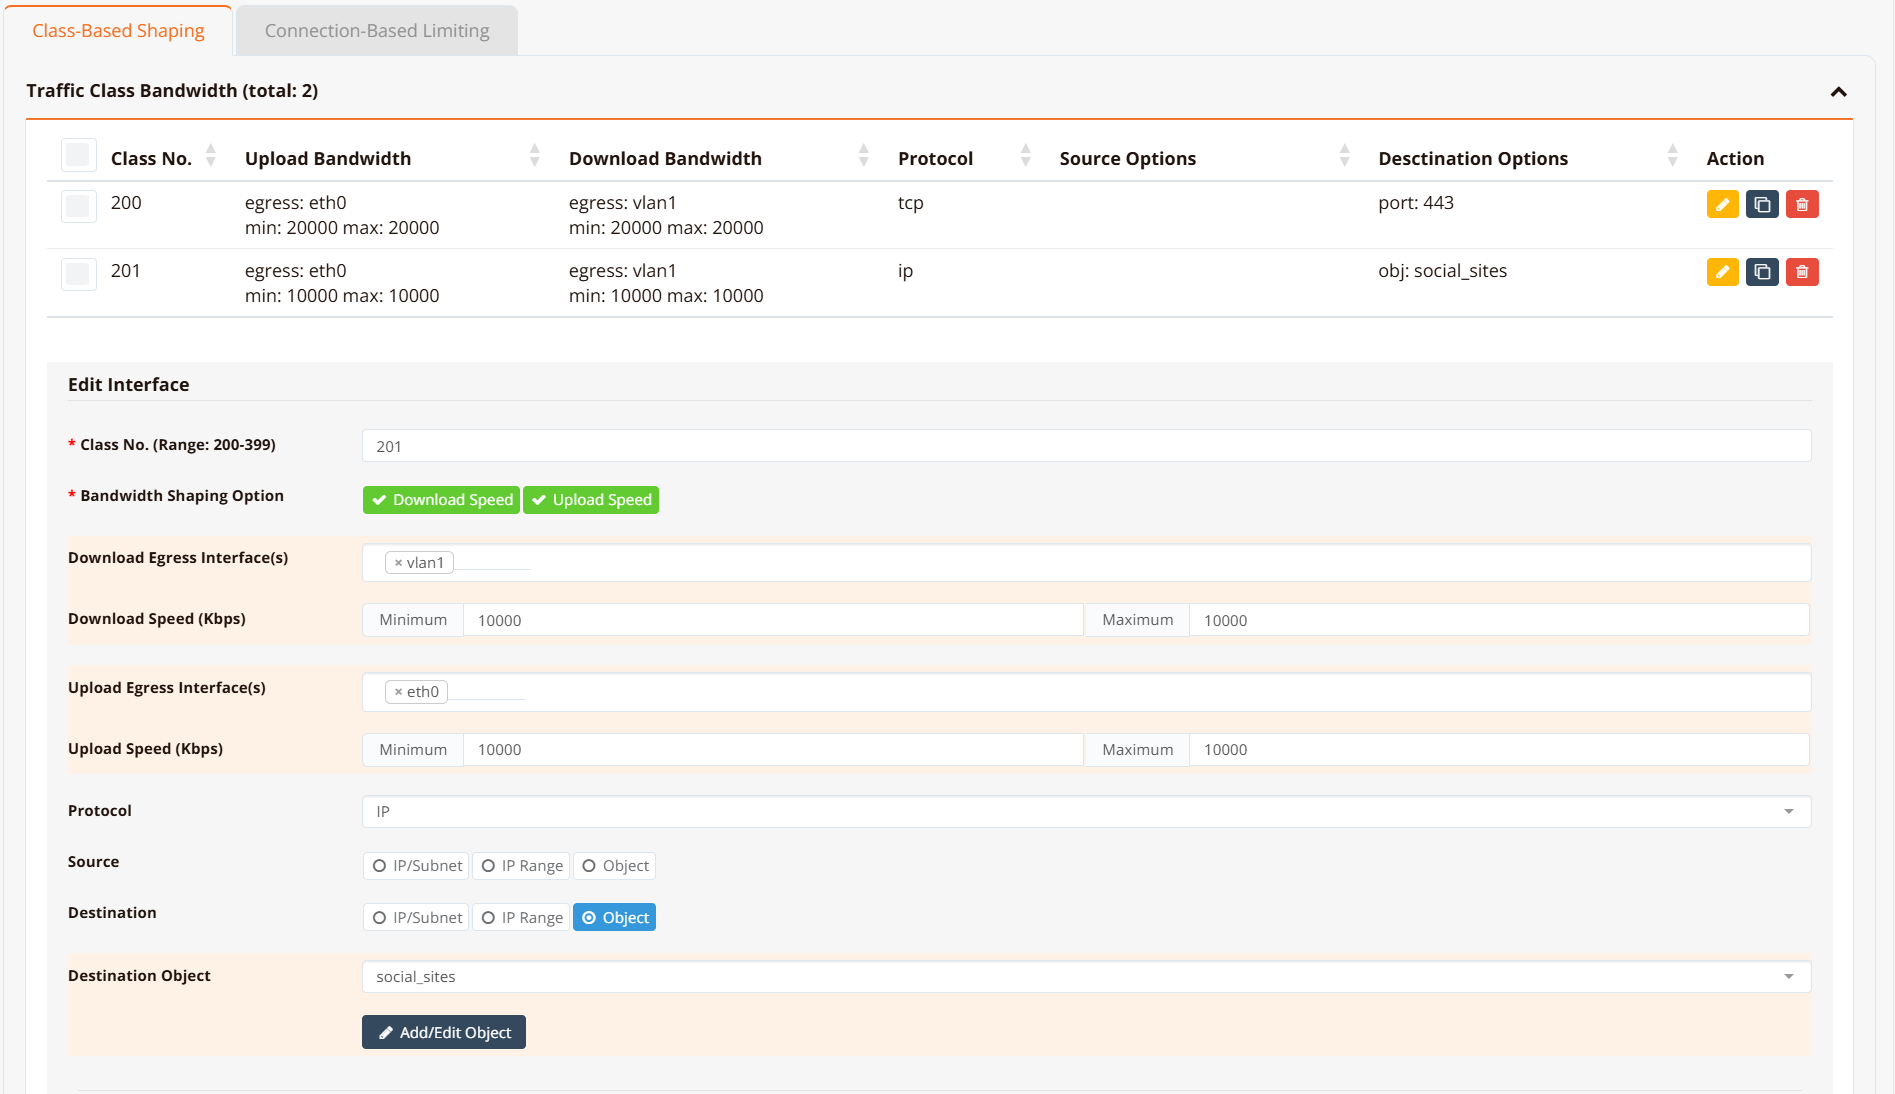
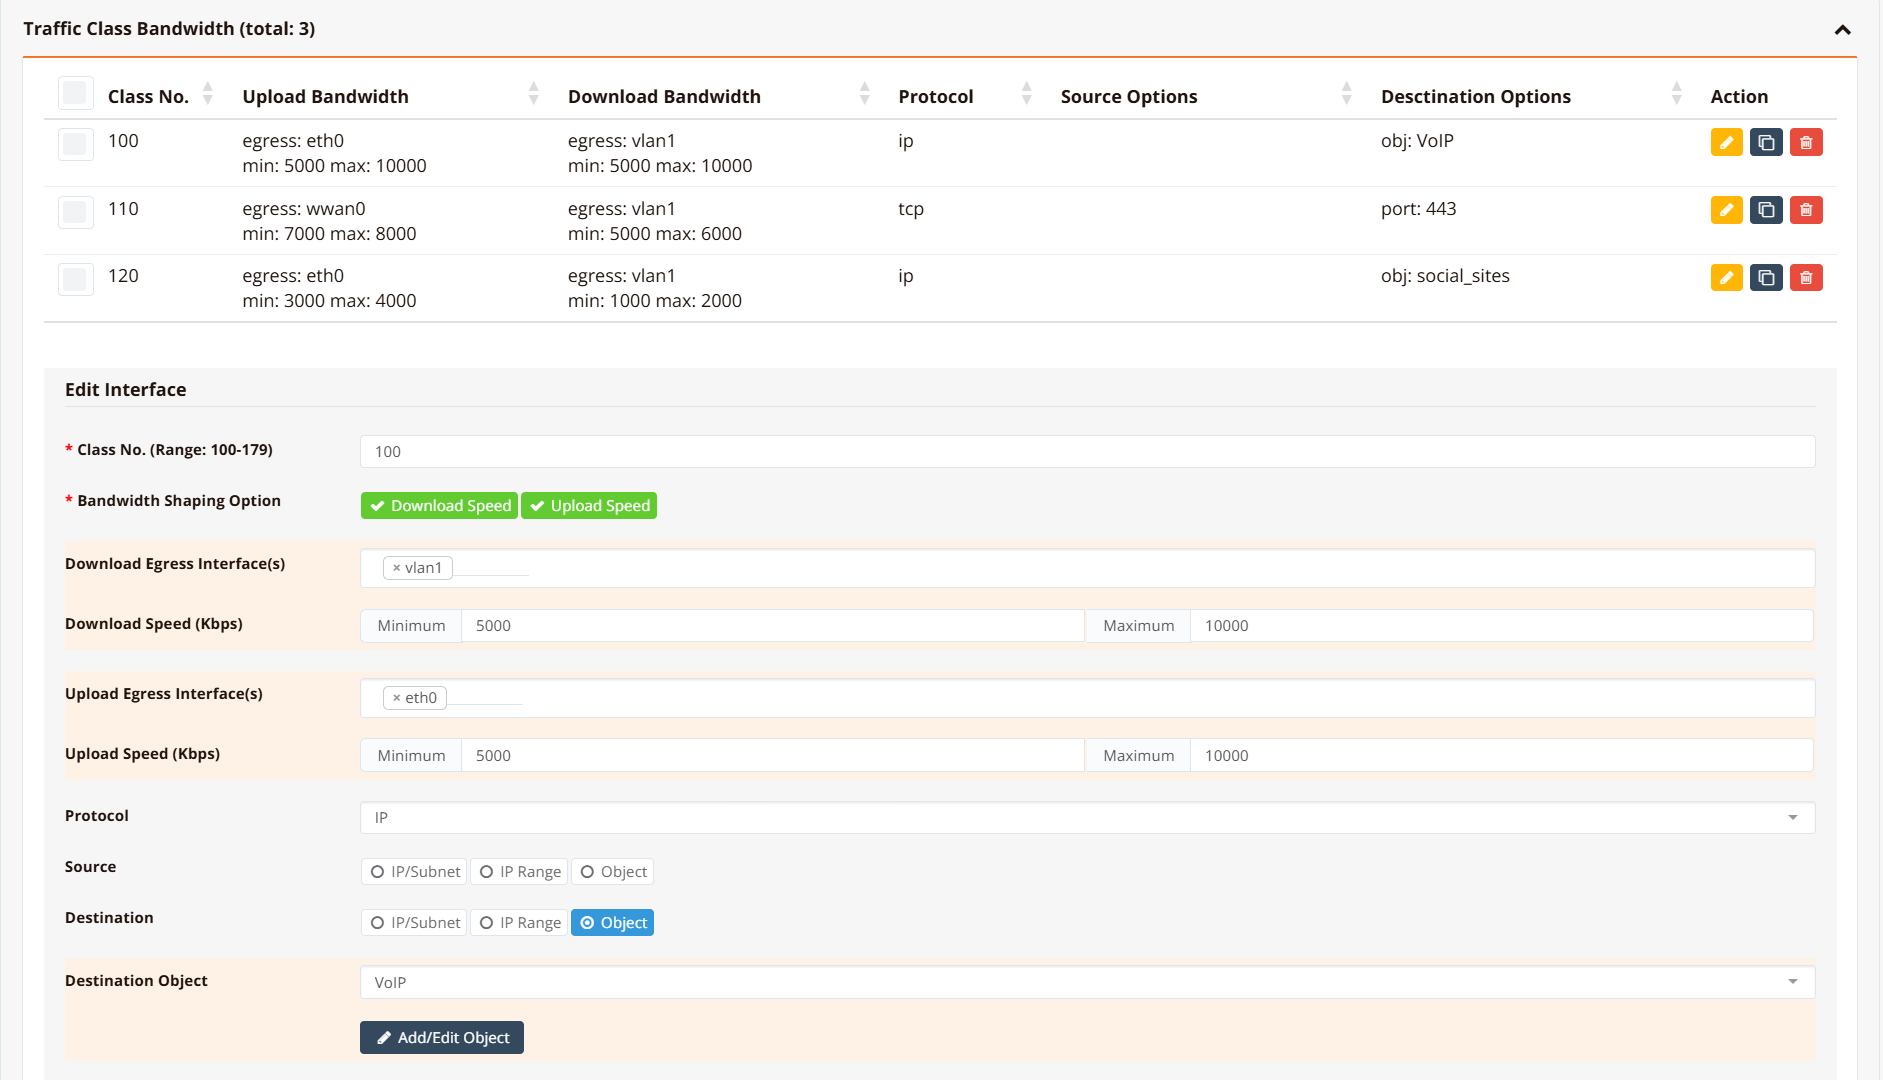
updated qos

diff --git a/docs/sdwan/qos.md b/docs/sdwan/qos.md
@@ -22,7 +22,7 @@ Within a VLAN, traffic can be further subdivided by application type (VLAN 30) o
 
 ## Class-Based Shaping
 
-Class-based shaping uses **HTB (Hierarchical Token Bucket)** queuing to allocate bandwidth across defined traffic classes. Each class has a guaranteed minimum rate and a maximum ceiling. Under congestion, higher-priority classes are served first before lower-priority ones receive any remaining bandwidth.
+Class-based shaping uses **HTB (Hierarchical Token Bucket)** queuing to allocate bandwidth across defined traffic classes. Each class has a guaranteed minimum `rate`, a maximum `ceil`, and a burst scheduling `prio`. Under congestion, every class receives its guaranteed `rate` unconditionally; when spare capacity exists, classes borrow toward their `ceil` in priority order.
 
 Typical use cases:
 
@@ -41,7 +41,17 @@ Classification is a two-step process:
 Because firewall rules handle all the matching, QoS classes inherit the full firewall matching vocabulary, including named application object groups and FQDN.
 
 !!! note
-    When configuring via the GUI or orchestrator, `firewall-set` rules and fwmark assignments are created automatically — no manual mark management is required. The orchestrator derives the fwmark from the class number (e.g. class `200` → upload mark `2001`, download mark `2002`). The CLI reflects these auto-generated values in `show running-config`.
+    When configuring via the GUI or orchestrator, `firewall-set` rules and fwmark assignments are created automatically — no manual mark management is required. The orchestrator derives the fwmark from the class number (e.g. class `100` → upload mark `1001`, download mark `1002`). The CLI reflects these auto-generated values in `show running-config`.
+
+!!! warning "Avoid Overlapping firewall-set Rules Across Classes"
+    `firewall-set` rules are evaluated in ascending rule number order. Each matching rule **overwrites** the fwmark set by any previous rule — the last matching rule wins. If two classes have `firewall-set` rules that can match the same packet, the packet will always end up in the class corresponding to the higher-numbered rule, regardless of which class was intended.
+
+    For example, if rule `1001` matches `tcp dport 443` (HTTPS) and rule `1501` matches a social media object group that includes HTTPS destinations, any HTTPS traffic to a social media site will be marked `1501` and placed into class `150`, not class `100`.
+
+    To avoid this:
+
+    - Use **mutually exclusive** match criteria across classes wherever possible.
+    - Where overlap is unavoidable, place the **more specific rule at a higher number** so it takes precedence (overwrites the broader mark). This is the same discipline required for PBR rules.
 
 ### Upload and Download
 
@@ -52,25 +62,71 @@ QoS acts on **egress** (outgoing) traffic only. To shape both directions, config
 
 Separate fwmarks are used for each direction — the upload mark matches on **destination** port or object (traffic going to the internet), and the download mark matches on **source** port or object (traffic returning from the internet). The orchestrator assigns these marks automatically following the class number convention.
 
-### Class Priority
+### Bandwidth Parameters and Priority
 
-The **class number** (`flowno`) controls priority in two complementary ways:
+Each traffic class is defined by three parameters. The GUI labels them **Minimum**, **Maximum**, and derives priority from the **Class No.** automatically. The CLI takes them as positional arguments. Their underlying HTB equivalents are shown in parentheses for reference.
 
-1. **Filter evaluation order** — lower class numbers are matched first. If traffic could satisfy multiple class filters, it is placed into the lowest-numbered matching class.
-2. **HTB scheduling priority** — the HTB scheduler maps the class number to one of 8 priority tiers (0–7) using the formula `(flowno − 200) × 8 ÷ 200`. Class `200` maps to tier 0 (highest); class `399` maps to tier 7 (lowest). Each tier spans 25 class numbers. When the shared bandwidth pool has excess capacity, lower-tier classes are served before higher-tier classes, allowing them to burst toward their `ceil` sooner.
+| GUI label | CLI position | HTB term | Description |
+|---|---|---|---|
+| **Minimum** (Kbps) | 1st argument after class no. | `rate` | Guaranteed bandwidth floor — always delivered |
+| **Maximum** (Kbps) | 2nd argument after class no. | `ceil` | Burst ceiling — maximum including borrowed capacity |
+| *(derived from Class No.)* | — | `prio` | Burst scheduling order — which class borrows first |
 
-| Class range | HTB prio tier | Priority |
-|-------------|--------------|----------|
-| 200–224 | 0 | Highest |
-| 225–249 | 1 | |
-| 250–274 | 2 | |
-| 275–299 | 3 | |
-| 300–324 | 4 | |
-| 325–349 | 5 | |
-| 350–374 | 6 | |
-| 375–399 | 7 | Lowest |
+#### Minimum — Guaranteed Bandwidth
 
-Under congestion (link fully saturated), every class is guaranteed its configured `rate` regardless of priority tier. Use `rate` to reserve bandwidth that must be protected for latency-sensitive traffic such as VoIP or video conferencing. The priority tier controls which classes benefit first when spare capacity is available.
+**Minimum** is the bandwidth a class is always entitled to receive, unconditionally. The HTB scheduler reserves this allocation regardless of what other classes are doing. Even when the link is fully saturated and every class is competing, each class will receive at least its configured Minimum.
+
+Use Minimum to protect latency-sensitive traffic — VoIP, real-time video, business-critical SaaS — from being crowded out during peak hours.
+
+#### Maximum — Burst Ceiling
+
+**Maximum** is the upper limit of bandwidth a class can ever consume, including capacity borrowed from the parent pool. A class can only exceed its Minimum up to the Maximum when other classes are using less than their own Minimum and spare capacity is available.
+
+- **Minimum = Maximum** — creates a hard cap. The class never borrows and is strictly limited to its guaranteed allocation.
+- **Maximum > Minimum** — allows opportunistic bursting. The class expands to fill idle capacity up to the ceiling.
+
+#### Priority — Burst Scheduling Order
+
+Priority (`prio`) controls which class gets first access to spare capacity once all class Minimums have been satisfied. It is **not directly configurable** — it is derived automatically from the Class No. using `(Class No. − 100) ÷ 10`. A lower class number gives a higher burst priority (borrows spare bandwidth before higher-numbered classes).
+
+!!! note "Priority is burst-order only — not strict priority"
+    Priority only governs the order in which classes borrow spare capacity **above** their Minimum. It has no effect on guaranteed allocations. A class with the lowest priority (class no. 170–179) and a Minimum of 50 Mbps will always receive its full 50 Mbps even when a highest-priority class is simultaneously active. True strict priority — "always drain this class before touching any other" — is not a feature of HTB.
+
+| Class No. range | Priority tier | Burst order |
+|-------------|----------|----------------|
+| 100–109 | 0 | Highest — borrows spare capacity first |
+| 110–119 | 1 | |
+| 120–129 | 2 | |
+| 130–139 | 3 | |
+| 140–149 | 4 | |
+| 150–159 | 5 | |
+| 160–169 | 6 | |
+| 170–179 | 7 | Lowest — borrows last |
+
+#### Order of Operations
+
+HTB processes each scheduling cycle in two sequential phases:
+
+1. **Guarantee phase** — all active classes are serviced up to their Minimum. This occurs unconditionally and in parallel — priority has no influence here. Every class receives its reserved allocation regardless of class number.
+
+2. **Borrow phase** — if spare capacity remains after all Minimums are satisfied, HTB offers the excess to classes in priority order. The highest-priority class (lowest class number) borrows first up to its Maximum, then the next tier, and so on. If the link is fully consumed in the guarantee phase, the borrow phase does not occur and priority has no effect at all.
+
+| Condition | Which phase applies | Is priority effective? |
+|---|---|---|
+| Link not fully loaded | Borrow phase — classes burst toward Maximum | Yes — lower class number bursts first |
+| Link saturated, all classes at Minimum | Guarantee phase only | No — all classes receive their Minimum |
+| A class has Minimum = 0 | Must always borrow; nothing guaranteed | Partially — risks starvation under congestion |
+
+#### Choosing Minimum and Maximum
+
+- Set **Minimum** to the bandwidth the application must have to function acceptably under worst-case congestion — this is its hard protection floor.
+- Set **Maximum** to the most bandwidth you are willing to allow the class to consume when the link is quiet.
+- The gap between Minimum and Maximum is the **burst window** — how aggressively the class expands into spare capacity when available.
+- To create a strict cap with no bursting, set **Minimum = Maximum**.
+
+#### Class Number and Filter Order
+
+The **Class No.** also controls **filter evaluation order**, independent of HTB scheduling. Lower class numbers are matched first. If a packet could satisfy multiple class filters, it is placed into the lowest-numbered matching class. Assign lower class numbers to traffic types that should take precedence in classification.
 
 ### GUI Configuration
 
@@ -81,38 +137,85 @@ Navigate to **Device Settings → SD-WAN → Traffic Shaping** and click the **C
 ### CLI Configuration
 
 ```
+!
+hostname HSA-520
+!
 interface eth0
+ description "Connection to WAN"
+ enable
+ ip address dhcp
  traffic-shape 10000000 10000000
-  class 200 20000 20000 fwmark 2001 remark https-upload
-  class 201 10000 10000 fwmark 2011 remark social-upload
+  class 100 5000 10000 fwmark 1001 remark class-100-upload
+  class 120 3000 4000 fwmark 1201 remark class-120-upload
+  default bandwidth 512 512
+!
+interface eth1
+ description "Do NOT configure"
+ enable
+!
+interface wwan0
+ enable
+ traffic-shape 10000000 10000000
+  class 110 7000 8000 fwmark 1101 remark class-110-upload
 !
 interface vlan 1 1
+ description "Default VLAN for all LAN ports"
+ enable
+ ip address 192.168.8.1/22
+ dhcp-server
+  router 192.168.8.1
+  dns 8.8.8.8 8.8.4.4
+  range 192.168.8.10 192.168.11.254
+  enable
  traffic-shape 10000000 10000000
-  class 200 20000 20000 fwmark 2002 remark https-download
-  class 201 10000 10000 fwmark 2012 remark social-download
-  default bandwidth 1000 1000
+  class 100 5000 10000 fwmark 1002 remark class-100-download
+  class 110 5000 6000 fwmark 1102 remark class-110-download
+  class 120 1000 2000 fwmark 1202 remark class-120-download
+  default bandwidth 512 512
+!
+ip name-server 8.8.8.8 8.8.4.4
+!
+object-group VoIP
+ net 118.189.175.168
+!
+object-group firewall_obj
+ net 2.2.2.2
+ app WhatsApp
+ fqdn docs.ransnet.com
 !
 object-group social_sites
  app Facebook
  app Tiktok
  app YouTube
 !
-firewall-set 2001 mark 2001 access tcp dport 443 remark https-upload
-firewall-set 2002 mark 2002 access tcp sport 443 remark https-download
-firewall-set 2011 mark 2011 access ip dst_object social_sites remark social-upload
-firewall-set 2012 mark 2012 access ip src_object social_sites remark social-download
+firewall-input 100 permit all tcp src 192.168.8.0/22 dport 22
+!
+firewall-limit 3001 2000 all ip dst_object firewall_obj remark 300-upload
+firewall-limit 3002 2000 all ip src_object firewall_obj remark 300-download
+!
+firewall-access 100 permit outbound eth0
+firewall-access 101 permit outbound wwan+
+!
+firewall-snat 100 overload outbound eth0
+firewall-snat 101 overload outbound wwan+
+!
+firewall-set 1001 mark 1001 access ip dst_object VoIP remark class-100-upload
+firewall-set 1101 mark 1101 access tcp dport 443 remark class-110-upload
+firewall-set 1102 mark 1102 access tcp sport 443 remark class-110-download
+firewall-set 1201 mark 1201 access ip dst_object social_sites remark class-120-upload
+firewall-set 1202 mark 1202 access ip src_object social_sites remark class-120-download
 ```
 
 **Key points:**
 
-- `traffic-shape <rate> <ceil>` sets the HTB root class bandwidth in Kbps. Use `10000000` (10 Gbps) when there is no overall interface cap — individual class limits do the actual shaping.
-- `class <flowno> <rate> <ceil> fwmark <mark>` defines a class. `flowno` determines priority — lower is higher priority. `rate` is the guaranteed minimum; `ceil` is the maximum burst ceiling.
+- `traffic-shape <min> <max>` sets the root class bandwidth envelope in Kbps. Use `10000000` (10 Gbps) when there is no overall interface cap — individual class limits do the actual shaping.
+- `class <no> <min> <max> fwmark <mark>` defines a traffic class. `no` (Class No.) determines both filter evaluation order and burst priority — lower is higher priority. `min` is the guaranteed Minimum; `max` is the Maximum burst ceiling.
 - `fwmark <mark>` links the class to a `firewall-set` rule carrying the same mark number. When using the orchestrator or GUI, this value is assigned automatically — no manual configuration needed.
 - `default bandwidth <rate> <ceil>` creates a catch-all class for traffic that does not match any fwmark. Omitting it allows unmatched traffic to pass at wire speed, which is acceptable when only per-class ceilings are needed.
 - `remark` is a free-text label stored in the running config for identification only — it has no effect on shaping behaviour.
 
 !!! tip
-    Assign lower class numbers to higher-priority traffic. Class `200` (prio tier 0) is always scheduled before class `350` (prio tier 6) when excess capacity is available. For traffic that must be protected under congestion (VoIP, real-time video), set a meaningful `rate` so the class retains its guaranteed allocation even when the link is saturated.
+    For traffic that must be protected under congestion (VoIP, real-time video), set a meaningful **Minimum** — this is the only mechanism that guarantees bandwidth when the link is saturated. Assign lower Class Numbers to traffic that should burst first when spare capacity is available, and use **Maximum** to cap the most each class can consume.
 
 !!! note
     `firewall-set` rules are evaluated for all traffic passing through the device. Only packets that match a rule receive a mark; all other traffic is unclassified. If a `default bandwidth` class is not configured, unclassified traffic exits at wire speed outside of HTB's control.
@@ -122,24 +225,32 @@ firewall-set 2012 mark 2012 access ip src_object social_sites remark social-down
 Example output:
 
 ```
-HSA-520# show interface traffic-shape
+HSA-520# show interface traffic-shape 
 
 Interface: eth0
-  Class    Rate        Ceil        Prio    FW Mark           Sent              Dropped
+  Class    Min         Max         Prio    FW Mark           Sent              Dropped
   -------  ----------  ----------  ------  ----------------  ----------------  -------
-  200      20Mbit      20Mbit      0       2001/0x7d1        244247B/2141p     0
-  201      10Mbit      10Mbit      0       2011/0x7db        0B/0p             0
-  [i] No default class — unclassified traffic passes at wire speed (uncapped)
+  100      5Mbit       10Mbit      0       1001/0x3e9        0B/0p             0
+  120      3Mbit       4Mbit       2       1201/0x4b1        0B/0p             0
+  default  512Kbit     512Kbit     -       (catch-all)       295439B/2692p     0
 
 Interface: vlan1
-  Class    Rate        Ceil        Prio    FW Mark           Sent              Dropped
+  Class    Min         Max         Prio    FW Mark           Sent              Dropped
   -------  ----------  ----------  ------  ----------------  ----------------  -------
-  200      20Mbit      20Mbit      0       2002/0x7d2        0B/0p             0
-  201      10Mbit      10Mbit      0       2012/0x7dc        0B/0p             0
-  default  1Mbit       1Mbit       -       (catch-all)       868B/8p           0
+  110      5Mbit       6Mbit       1       1102/0x44e        0B/0p             0
+  100      5Mbit       10Mbit      0       1002/0x3ea        0B/0p             0
+  120      1Mbit       2Mbit       2       1202/0x4b2        0B/0p             0
+  default  512Kbit     512Kbit     -       (catch-all)       0B/0p             0
+
+Interface: wwan0
+  Class    Min         Max         Prio    FW Mark           Sent              Dropped
+  -------  ----------  ----------  ------  ----------------  ----------------  -------
+  110      7Mbit       8Mbit       1       1101/0x44d        0B/0p             0
+  [i] No default class — unclassified traffic passes at wire speed (uncapped)
+HSA-520# 
 ```
 
-**FW Mark** shows the decimal value (matching the `firewall-set` rule number) alongside the kernel's internal hex representation. **Prio** is the HTB scheduling priority (0–7) derived from the class number using `(flowno − 200) × 8 ÷ 200` — class `200` → prio `0` (highest), class `399` → prio `7` (lowest). Classes with a lower prio value are served first when excess bandwidth is available.
+**Min** is the guaranteed bandwidth floor (Minimum); **Max** is the burst ceiling (Maximum). **FW Mark** shows the decimal value (matching the `firewall-set` rule number) alongside the kernel's internal hex representation. **Prio** is the burst scheduling order (0–7), derived automatically from the Class No. using `(Class No. − 100) ÷ 10` — class `100` → prio `0` (highest), class `179` → prio `7` (lowest).
 
 For low-level inspection of the underlying `qos` state:
 
@@ -220,31 +331,31 @@ Each chain contains two DROP rules — one keyed on source IP (`srcip`) and one 
 
 ### Class Numbering Convention
 
-Valid class numbers are in the range **200–399**. The class number determines both the scheduling priority tier and the auto-assigned fwmark values. Use the table below to select the right class range for the desired priority:
+Valid class numbers are in the range **100–179**. The class number determines both the scheduling priority tier and the auto-assigned fwmark values. Use the table below to select the right class range for the desired priority:
 
-| Class range | HTB prio | Priority level | Typical use |
+| Class No. range | Burst priority (Prio) | Burst order | Typical use |
 |-------------|----------|----------------|-------------|
-| 200–224 | 0 | Highest | VoIP, real-time video |
-| 225–249 | 1 | | Video conferencing |
-| 250–274 | 2 | | Business-critical (SaaS, ERP) |
-| 275–299 | 3 | | Interactive web (HTTPS) |
-| 300–324 | 4 | | General web browsing |
-| 325–349 | 5 | | File downloads |
-| 350–374 | 6 | | Social media, streaming |
-| 375–399 | 7 | Lowest | Background / bulk transfers |
+| 100–109 | 0 | Highest | VoIP, real-time video |
+| 110–119 | 1 | | Video conferencing |
+| 120–129 | 2 | | Business-critical (SaaS, ERP) |
+| 130–139 | 3 | | Interactive web (HTTPS) |
+| 140–149 | 4 | | General web browsing |
+| 150–159 | 5 | | File downloads |
+| 160–169 | 6 | | Social media, streaming |
+| 170–179 | 7 | Lowest | Background / bulk transfers |
 
 The orchestrator automatically derives fwmark values from the class number — class `N` gets upload mark `N×10+1` and download mark `N×10+2`:
 
-| HTB prio | Example class | Auto upload mark | Auto download mark |
+| Burst priority | Example Class No. | Auto upload mark | Auto download mark |
 |----------|---------------|-----------------|-------------------|
-| 0 (highest) | 200 | 2001 | 2002 |
-| 1 | 225 | 2251 | 2252 |
-| 2 | 250 | 2501 | 2502 |
-| 3 | 275 | 2751 | 2752 |
-| 4 | 300 | 3001 | 3002 |
-| 5 | 325 | 3251 | 3252 |
-| 6 | 350 | 3501 | 3502 |
-| 7 (lowest) | 375 | 3751 | 3752 |
+| 0 (highest) | 100 | 1001 | 1002 |
+| 1 | 110 | 1101 | 1102 |
+| 2 | 120 | 1201 | 1202 |
+| 3 | 130 | 1301 | 1302 |
+| 4 | 140 | 1401 | 1402 |
+| 5 | 150 | 1501 | 1502 |
+| 6 | 160 | 1601 | 1602 |
+| 7 (lowest) | 170 | 1701 | 1702 |
 
 ### Combining Methods
 
